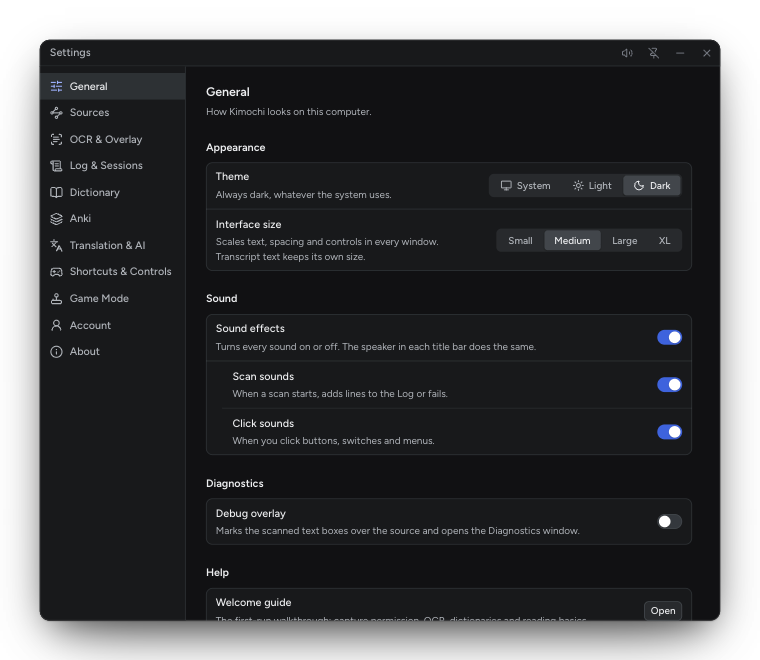
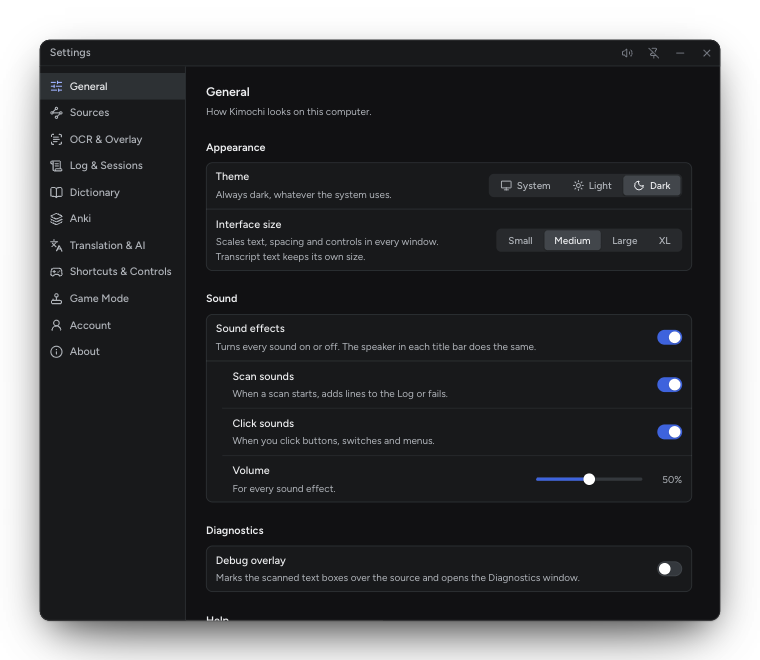
Sound effects: a volume slider for all of them, 50% by default

diff --git a/ui/sounds.ts b/ui/sounds.ts
@@ -61,8 +61,28 @@ export const SOUND_NAMES: readonly SoundName[] = [
   ...INTERFACE_SOUNDS
 ]
 
-/** Under the system's alert level: these accompany reading, they should not interrupt it. */
+/**
+ * The default volume (the `soundEffectsVolume` setting, 0–1): under the system's alert level, as
+ * these accompany reading and should not interrupt it.
+ */
 export const SOUND_VOLUME = 0.5
+
+/** This window's sound volume, 0–1: the setting, as the window last read it (`setSoundVolume`). */
+let soundVolume = SOUND_VOLUME
+
+/** The `soundEffectsVolume` setting as a volume: 0–1, the default for anything else. */
+export function volumeOf(value: unknown): number {
+  return typeof value === 'number' && Number.isFinite(value) ? Math.min(1, Math.max(0, value)) : SOUND_VOLUME
+}
+
+/** Sets the volume every later sound in this window plays at. */
+export function setSoundVolume(value: unknown): void {
+  soundVolume = volumeOf(value)
+}
+
+export function currentSoundVolume(): number {
+  return soundVolume
+}
 
 export const AUTO_ERROR_INTERVAL_MS = 10_000
 
@@ -109,6 +129,8 @@ export interface SoundPlayerOptions {
    * Settings applies at once. A boolean (or anything but `false`) answers for every sound.
    */
   enabled: (name: SoundName) => unknown
+  /** The `soundEffectsVolume` setting, read at each sound like `enabled`; omitted, the window's volume stays as it is. */
+  volume?: () => unknown
   play?: (name: SoundName) => void
   now?: () => number
 }
@@ -118,6 +140,7 @@ export type SoundPlayer = (name: SoundName | null, options?: { auto?: boolean })
 /** A player that honours the setting and the error throttle; returns whether it played. */
 export function createSoundPlayer({
   enabled,
+  volume,
   play = playAudio,
   now = Date.now
 }: SoundPlayerOptions): SoundPlayer {
@@ -132,6 +155,7 @@ export function createSoundPlayer({
       if (!errorMayRing(lastErrorAt, at, auto)) return false
       lastErrorAt = at
     }
+    if (volume) setSoundVolume(volume())
     play(name)
     return true
   }
@@ -158,7 +182,8 @@ export const POOL_SIZE = 3
  */
 export function createAudioPlayer(
   AudioCtor: AudioConstructor,
-  source: (name: SoundName) => string
+  source: (name: SoundName) => string,
+  volume: () => number = currentSoundVolume
 ): (name: SoundName) => AudioLike | null {
   const pools = new Map<SoundName, AudioLike[]>()
   return (name) => {
@@ -169,11 +194,11 @@ export function createAudioPlayer(
       let audio = pool.find((candidate) => candidate.ended) ?? null
       if (!audio) {
         audio = new AudioCtor(source(name))
-        // Modest, so two overlapping sounds (a start and a quick result) stay clear of clipping.
-        audio.volume = SOUND_VOLUME
         audio.preload = 'auto'
         if (pool.length < POOL_SIZE) pool.push(audio)
       }
+      // At each play, so a change of the volume setting applies to the next sound.
+      audio.volume = volume()
       void audio.play()?.catch(() => undefined)
       return audio
     } catch {
@@ -384,7 +409,8 @@ export interface AudioBufferLike {
  */
 export function createBufferPlayer(
   context: AudioContextLike,
-  fetchSound: (name: SoundName) => Promise<ArrayBuffer>
+  fetchSound: (name: SoundName) => Promise<ArrayBuffer>,
+  volume: () => number = currentSoundVolume
 ): { load(): void; play(name: SoundName): boolean } {
   const gain = context.createGain()
   gain.gain.value = SOUND_VOLUME
@@ -413,6 +439,7 @@ export function createBufferPlayer(
       if (!sound) return false
       // A context made before the window's first gesture can start suspended.
       if (context.state === 'suspended') void context.resume().catch(() => undefined)
+      gain.gain.value = volume()
       const source = context.createBufferSource()
       source.buffer = sound.buffer
       source.connect(gain)

diff --git a/frontend/panels/settings/GeneralTab.tsx b/frontend/panels/settings/GeneralTab.tsx
@@ -3,12 +3,13 @@ import { GnomeOverlaySetup } from '../../main/GnomeOverlaySetup'
 import { SteamLibrarySection } from './SteamLibrarySection'
 import type { ReactNode } from 'react'
 import { Monitor, Moon, Sun } from 'lucide-react'
-import { Button, Segmented, SettingsPage, SettingsRow, SettingsSection, SettingsSubgroup, Switch } from '@kit'
+import { Button, Segmented, SettingsPage, SettingsRow, SettingsSection, SettingsSubgroup, Slider, Switch } from '@kit'
 import { useController } from '../useController'
 import { panel } from '../../bridge/tauri'
 import { useSetting } from '../../bridge/useSetting'
 import { useCapabilities } from '../../bridge/capabilities'
 import { INTERFACE_SCALES, type Appearance, type InterfaceScale } from '@ui/settings'
+import { playAudio, setSoundVolume, volumeOf } from '@ui/sounds'
 
 const APPEARANCES = [
   { value: 'system', label: 'System', icon: <Monitor /> },
@@ -27,6 +28,8 @@ export function GeneralTab(): ReactNode {
   const [soundEffects, setSoundEffects] = useSetting<boolean>('soundEffects', true)
   const [scanSounds, setScanSounds] = useSetting<boolean>('soundEffectsScans', true)
   const [clickSounds, setClickSounds] = useSetting<boolean>('soundEffectsClicks', true)
+  const [soundVolume, saveSoundVolume] = useSetting<number>('soundEffectsVolume', 0.5)
+  const volume = Math.round(volumeOf(soundVolume) * 100)
   const { props: controller } = useController()
   const { capture } = useCapabilities()
   // Screen recording is a step only where it is granted in the system's settings.
@@ -97,6 +100,24 @@ export function GeneralTab(): ReactNode {
                 checked={clickSounds}
                 onCheckedChange={(checked) => void setClickSounds(checked)}
               />
+            </SettingsRow>
+            <SettingsRow label="Volume" description="For every sound effect.">
+              <div className="settings-slider">
+                <Slider
+                  aria-label="Sound effects volume"
+                  value={[volume]}
+                  min={0}
+                  max={100}
+                  step={5}
+                  onValueChange={(values) => void saveSoundVolume(values[0] / 100)}
+                  // Heard at the new level once it is let go (with click sounds on).
+                  onValueCommit={(values) => {
+                    setSoundVolume(values[0] / 100)
+                    if (clickSounds !== false) playAudio('click')
+                  }}
+                />
+                <span className="settings-slider-value k-num">{volume}%</span>
+              </div>
             </SettingsRow>
           </SettingsSubgroup>
         )}

diff --git a/frontend/shell/useInteractionSounds.ts b/frontend/shell/useInteractionSounds.ts
@@ -3,13 +3,16 @@
  * The sound settings are read at each click, so muting from any window applies at once.
  */
 import { useEffect, useRef } from 'react'
-import { installInteractionSounds, soundKind, soundKindOn, type SoundSettings } from '@ui/sounds'
+import { installInteractionSounds, setSoundVolume, soundKind, soundKindOn, type SoundSettings } from '@ui/sounds'
 import { useSetting } from '../bridge/useSetting'
 
 export function useInteractionSounds(): void {
   const [soundEffects] = useSetting<boolean>('soundEffects', true)
   const [soundEffectsScans] = useSetting<boolean>('soundEffectsScans', true)
   const [soundEffectsClicks] = useSetting<boolean>('soundEffectsClicks', true)
+  const [soundEffectsVolume] = useSetting<number>('soundEffectsVolume', 0.5)
+  // Every sound in this window plays at it, the clicks below and any other (playAudio).
+  useEffect(() => setSoundVolume(soundEffectsVolume), [soundEffectsVolume])
   const settings = useRef<SoundSettings>({})
   useEffect(() => {
     settings.current = { soundEffects, soundEffectsScans, soundEffectsClicks }

diff --git a/ui/settings.ts b/ui/settings.ts
@@ -178,6 +178,8 @@ export interface Settings {
   soundEffectsScans: boolean
   /** Under `soundEffects`: the click of buttons, switches and menus, and the sidebar's whoosh. */
   soundEffectsClicks: boolean
+  /** Under `soundEffects`: the volume of every sound effect, 0–1. */
+  soundEffectsVolume: number
   /** Recording system audio for the cards' sentence audio (src-tauri/src/sentence_audio). This
       computer's: never synced. */
   sentenceAudio: SentenceAudioSettings
@@ -230,6 +232,7 @@ export const SETTINGS_DEFAULTS: Settings = {
   soundEffects: true,
   soundEffectsScans: true,
   soundEffectsClicks: true,
+  soundEffectsVolume: 0.5,
   sentenceAudio: {
     enabled: false,
     seconds: 30,

diff --git a/frontend/dev/preview-setup.ts b/frontend/dev/preview-setup.ts
@@ -1018,7 +1018,10 @@ let embedScan = 0
  * (the app's overlay is not here to ring it), and `sound` from the parent for the demo's scripted
  * clicks on its own desktop. The sound settings apply, as in the app.
  */
-const embedSound = createSoundPlayer({ enabled: (name) => soundKindOn(settings, soundKind(name)) })
+const embedSound = createSoundPlayer({
+  enabled: (name) => soundKindOn(settings, soundKind(name)),
+  volume: () => settings.soundEffectsVolume
+})
 
 /**
  * Muted while the demo is out of sight (`muted` from the parent): every sound this page would play,

diff --git a/ui/overlay.js b/ui/overlay.js
@@ -218,6 +218,7 @@ async function mirrorDictionaryEngine({ repair = false } = {}) {
 
 /** Scan sounds; the settings are read at each one, so turning them off in Settings is immediate. */
 const playSound = createSoundPlayer({
+  volume: () => setting('soundEffectsVolume'),
   enabled: (name) =>
     soundKindOn(
       {
